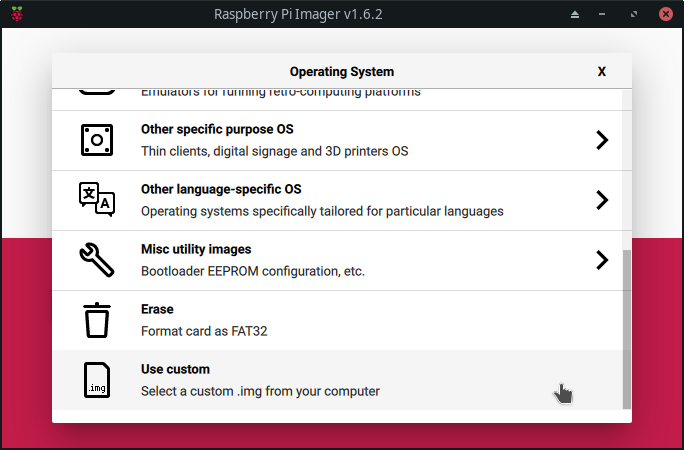
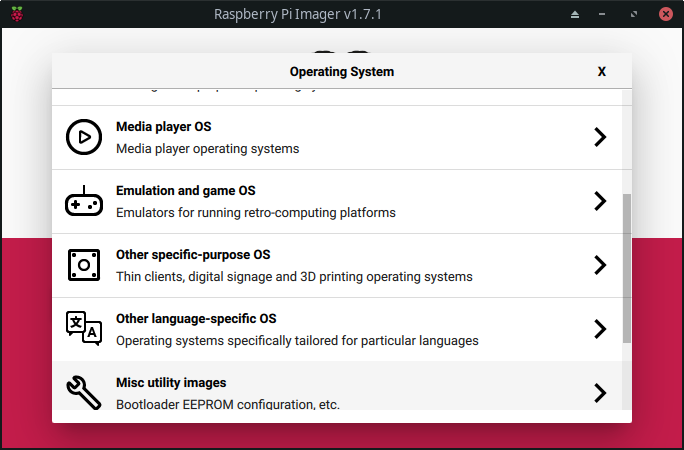
docs: updated MainsailOS Setup Guide using rpi-imager
Replaced Screenshots to newer Version.
Added Warning not to change Username.
Updated Screenshot of Update Section.
Refactored first boot for some styling.

diff --git a/setup-guide/mainsailos/pi-imager.md b/setup-guide/mainsailos/pi-imager.md
@@ -19,57 +19,92 @@ Low end cards will often fail quickly when used in this application.
 **FLASHING WILL DESTROY ALL DATA ON YOUR SD CARD AND CANNOT BE REVERSED**
 {: .alert}
 
-____
+---
 
 # Preparation
 
-*  [Download](https://github.com/mainsail-crew/MainsailOS/releases) the latest MainsailOS release (don't unpack the zip; you don't need to).
-*  [Download](https://www.raspberrypi.org/software/) and install the latest Raspberry Pi Imager (aka. rpi-imager).
+- [Download](https://www.raspberrypi.org/software/) and install the latest Raspberry Pi Imager (v1.7.1) (aka. rpi-imager).
 
 # Flashing MainsailOS
 
 Raspberry Pi Imager appearance may vary depending on the host OS.
 {: .info}
 
-
-*  When opening rpi-imager you will be presented with the following:
+- When opening rpi-imager you will be presented with the following:
 
 ![screenshot-imager-launched](img/rpi-imager-launched.png)
 
-* Select "CHOOSE OS", and a popup will open as illustrated below. Select "Use custom" and navigate to the MainsailOS zip you downloaded.
+- Select "CHOOSE OS", and a popup will open as illustrated below.
+- Scroll down to "Other specific-purpose OS"
 
-![screenshot-imager-popup](img/rpi-os-popup.png)
-![screenshot-imager-os-selected](img/rpi-choosen-os.png)
+![screenshot-imager-choose-specific](img/rpi-os-popup.png)
 
-* Click on "STORAGE" and select your desired SD card.
+- Select "3D printing"
 
-![screenshot-imager-sd-card-selection](img/rpi-sdcard.png)
+![screenshot-imager-3d-printing](img/rpi-3d-printing.png)
 
-* Hostname, wi-fi, language and numerous other settings can now be scrolled through and pre-configured in a hidden setup menu, opened by pressing:
+- Choose your prefered 3D printing OS (Mainsail for sure)
 
-```bash
-CTRL+SHIFT+X
-```
-As a bare minimumm setup SSH and a network connection (unless wired) at this point, especially if performing a 'headless' installation.
+![screenshot-imager-os-mainsail](img/rpi-mainsailos.png)
+![screenshot-imager-os-mainsail-choosen](img/rpi-mainsailos-choosen.png)
+
+- After that is done hit "STORAGE" and select your desired SD card.
+
+![screenshot-imager-choose-storage](img/rpi-choose-storage.png)
+
+- For example:
+
+![screenshot-imager-choose-storage2](img/rpi-choose-storage-2.png)
+
+- After that is done, it is time to hit the little cogwheel in the right corner.
+
+![screenshot-imager-cogwheel](img/rpi-cogwheel.png)
+
+- Setup your hostname and enable SSH.
+
+As a bare minimumm setup SSH and a network connection  
+at this point, especially if performing a 'headless' installation.
 {: .info}
 
-![screenshot-imager-rpi-preconfig1](img/rpi-setup-1.png)
+![screenshot-imager-setup-ssh](img/rpi-setup-ssh.png)
 
-![screenshot-imager-rpi-preconfig2](img/rpi-setup-2.png)
+- Change your password, this step is highly recommended!
 
-* With all desired options preconfigured, click on "WRITE" and accept the warning.
+**Please don't change the username!**  
+**This will have unwanted side effects!**  
+At this Stage MainsailOS Setup relays on the User "pi".  
+We will change that in the Future.
+{: .alert}
+
+![screenshot-imager-setup-username](img/rpi-setup-username.png)
+
+- If you want to use WiFi instead a wired connection,  
+  please configure your WiFi accordingly.
+
+![screenshot-imager-setup-wifi](img/rpi-setup-wifi.png)
+
+- The last point handles your Timezone and Keyboard Layout  
+  (Keyboard Layout may affect your language in some cases)
+
+![screenshot-imager-setup-timezone](img/rpi-timezone.png)
+
+- With all desired options preconfigured, click on "WRITE" and accept the warning.
+
+![screenshot-imager-write](img/rpi-write.png)
 
 ![screenshot-imager-warning](img/rpi-warning.png)
 
-* Imager will take some time to write the disc image to the SD card. When it's finished, click continue.
+- Imager will take some time to write the image to the SD card.  
+  _When it finished the transfer to your SD Card, it will verify your Image._
+
+![screenshot-imager-writing](img/rpi-writing.png)
+
+Select the "CONTINUE" button and unmount (safely remove) your newly flashed MainsailOS SD card.
 
 ![screenshot-imager-write-finished](img/rpi-finished.png)
 
-Select the "CONTINUE" button and  unmount (safely remove) your newly flashed MainsailOS SD card.
-
 You are now ready to move on to the [first boot](first-boot) of MainsailOS.
 
-
 ---
-[< tool selection](../mainsail-os.md){: .btn }  [next step >](first-boot){: .btn }
 
+[< tool selection](../mainsail-os.md){: .btn } [next step >](first-boot){: .btn }

diff --git a/setup-guide/mainsailos/first-boot.md b/setup-guide/mainsailos/first-boot.md
@@ -8,59 +8,73 @@ has_children: false
 permalink: /setup/mainsailos/first-boot
 ---
 
-
 # First boot
 
-Insert the flashed SD card into your Pi and connect any other hardware such a network cable, USB cable to the 3D printer, or a webcam.
+Insert the flashed SD card into your Pi and hook up any other hardware such as:
+
+- network cable, if you dont use WiFi
+- 3D printer board connection (USB or Serial)
+- or a webcam.
 
 Power on the Pi and let it boot up.
 
-**The initial boot of  MainsailOS may take some time to expand your "root" filesystem. The larger the SD card, the longer the first boot will take.**
+**The initial boot of MainsailOS may take some time.**  
+**MainsailOS expand your "root" filesystem to the whole size of your used SD Card.**  
+**The larger the SD card, the longer the first boot will take.**
 {: .warning}
 
-Initially the green LED on the Pi will be extremely active. After some time it will only intermittently flicker, indicating it has likely completed the boot sequence.
+Initially the green LED on the Pi will be extremely active.
+After some time it will only intermittently flicker, indicating it has likely completed the boot sequence.
 
-The web interface should now be ready to access on your local network:
+If you want to go sure that it is ready, login via SSH or spin up your Browser and navigate to:
 
 ```
 http://mainsailos.local
 ```
-or 
+
+or
+
 ```
 http://<IP address of your Pi>
 ```
 
 ## Mainsail.cfg
 
- **Important:** Include `mainsail.cfg` in your printer.cfg file
+**Important:** Include `mainsail.cfg` in your printer.cfg file
 {: .warning}
 
-Mainsail will not work correctly until `mainsail.cfg` is included in Klipper's configuration file.  Open Klipper's default `printer.cfg` file in Mainsail's file manager located in `Settings > Machine`.  If you do not have a `printer.cfg` file, you can create one. Add the following line to `printer.cfg` 
+Mainsail will not work correctly until `mainsail.cfg` is included in Klipper's configuration file.  
+Open Klipper's default `printer.cfg` file in Mainsail's file manager located in:  
+`Settings > Machine`  
+If you do not have a `printer.cfg` file, you can create one.  
+Add the following line to `printer.cfg`
 
 ```
 [include mainsail.cfg]
 ```
 
-![screenshot-web-editor](img/screenshot-web-editor-printer.png)        
+![screenshot-web-editor](img/screenshot-web-editor-printer.png)
 
 ![screenshot-web-editor-printercfg](img/screenshot-printercfg-include-mainsail.png)
 
-and click on  the `Save & Restart` button.
+and click on the `Save & Restart` button.
 
 ## Updates
 
 Once you've successfully navigated to the Mainsail's web interface it is _strongly_ recommend that you run any available updates.
 {: .info}
 
-Klipper, Moonraker and Mainsail have fast development cycles and while we do our best to ensure MainsailOS ships as close to upstream as we can, there will always be a short delay before releases make it into MainsailOS' image.
+Klipper, Moonraker and Mainsail have fast development cycles and  
+while we do our best to ensure MainsailOS ships as close to upstream as we can,  
+there will always be a short delay before releases make it into MainsailOS' image.
 
-It is recommended that you enable and use the [built in update-manager](../../update/update-manager) to perform any system updates, then update Klipper, Moonraker, Mainsail as needed.
+It is recommended that you enable and use the [built in update-manager](../../update/update-manager).  
+To perform any possible updates, simply click "UPDATE ALL COMPONENTS".
 
-![screenshot-update-manager](../../update-guide/img/screenshot-update-manager-example-not-up-to-date.png)
-
+![screenshot-update-manager](../../update-guide/img/screenshot-update-manager-latest.png)
 
 MainsailOS is now configured, and Klipper's configuration file, [printer.cfg], can be setup.
 
 ---
-[< tool selection](../mainsail-os.md){: .btn }  [next step >](klipper-setup){: .btn } 
 
+[< tool selection](../mainsail-os.md){: .btn } [next step >](klipper-setup){: .btn }
